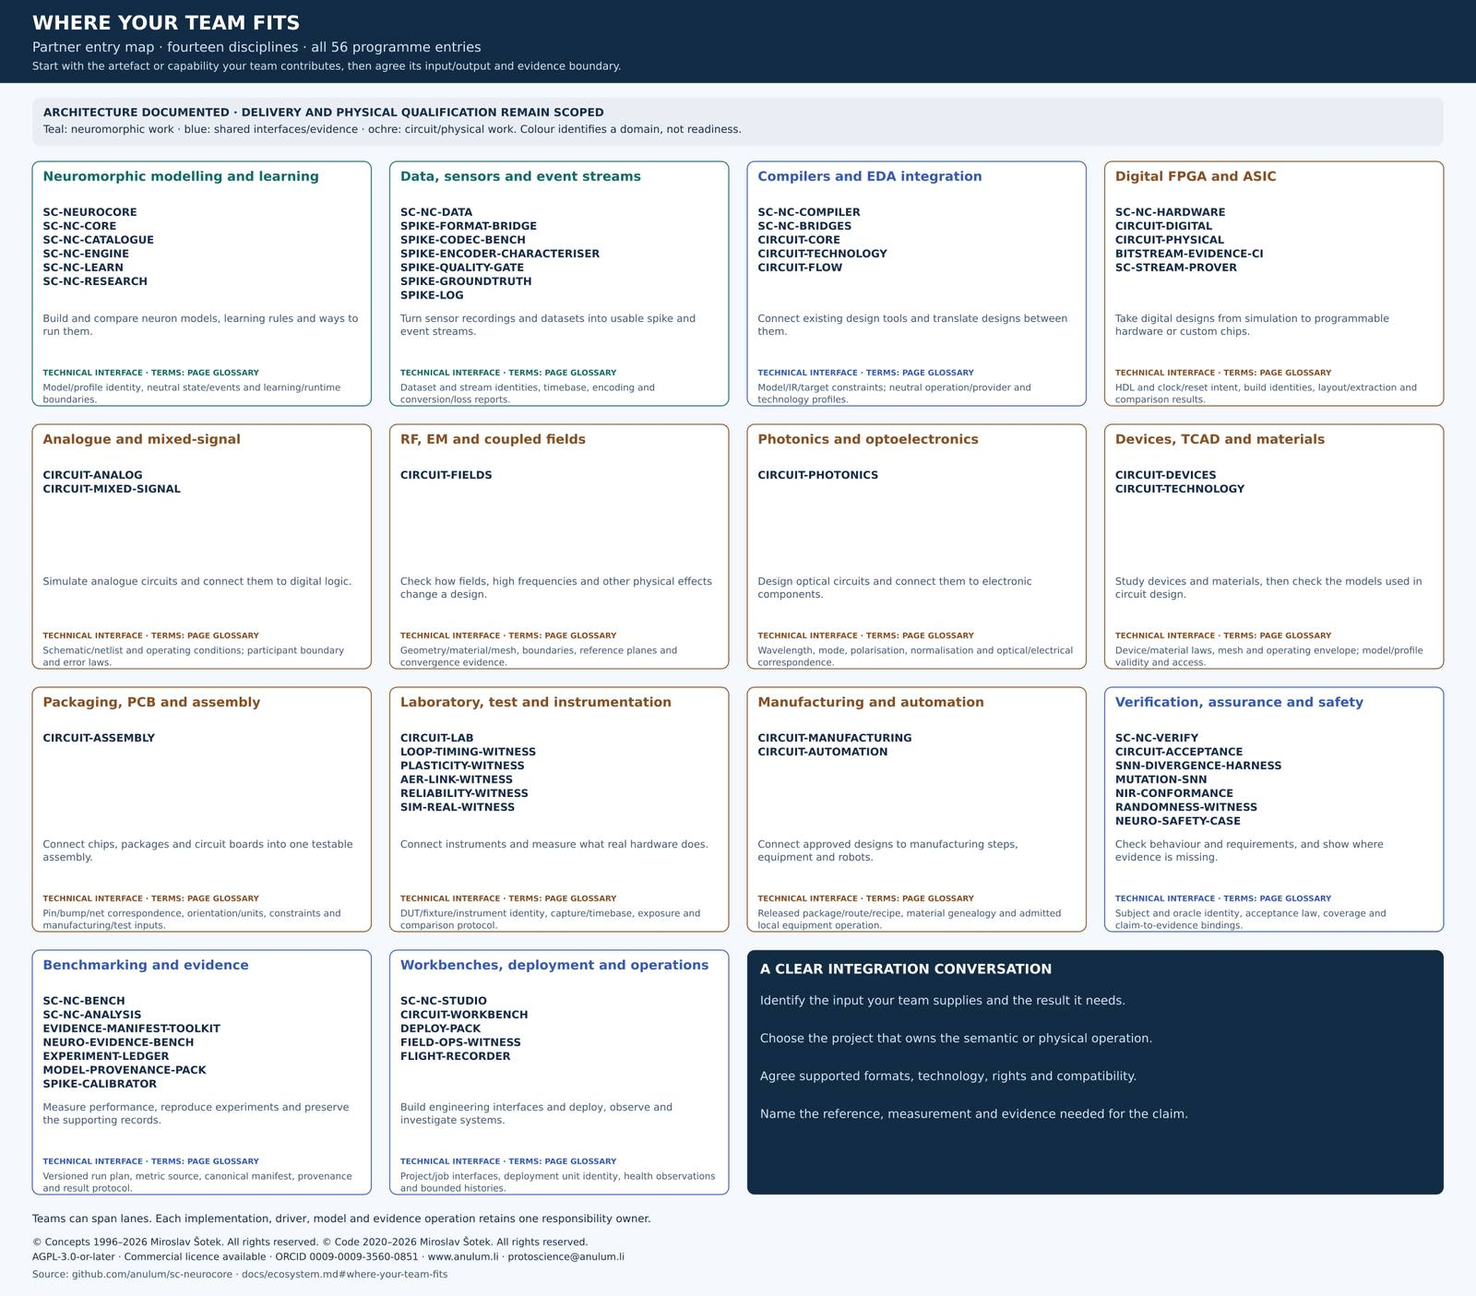
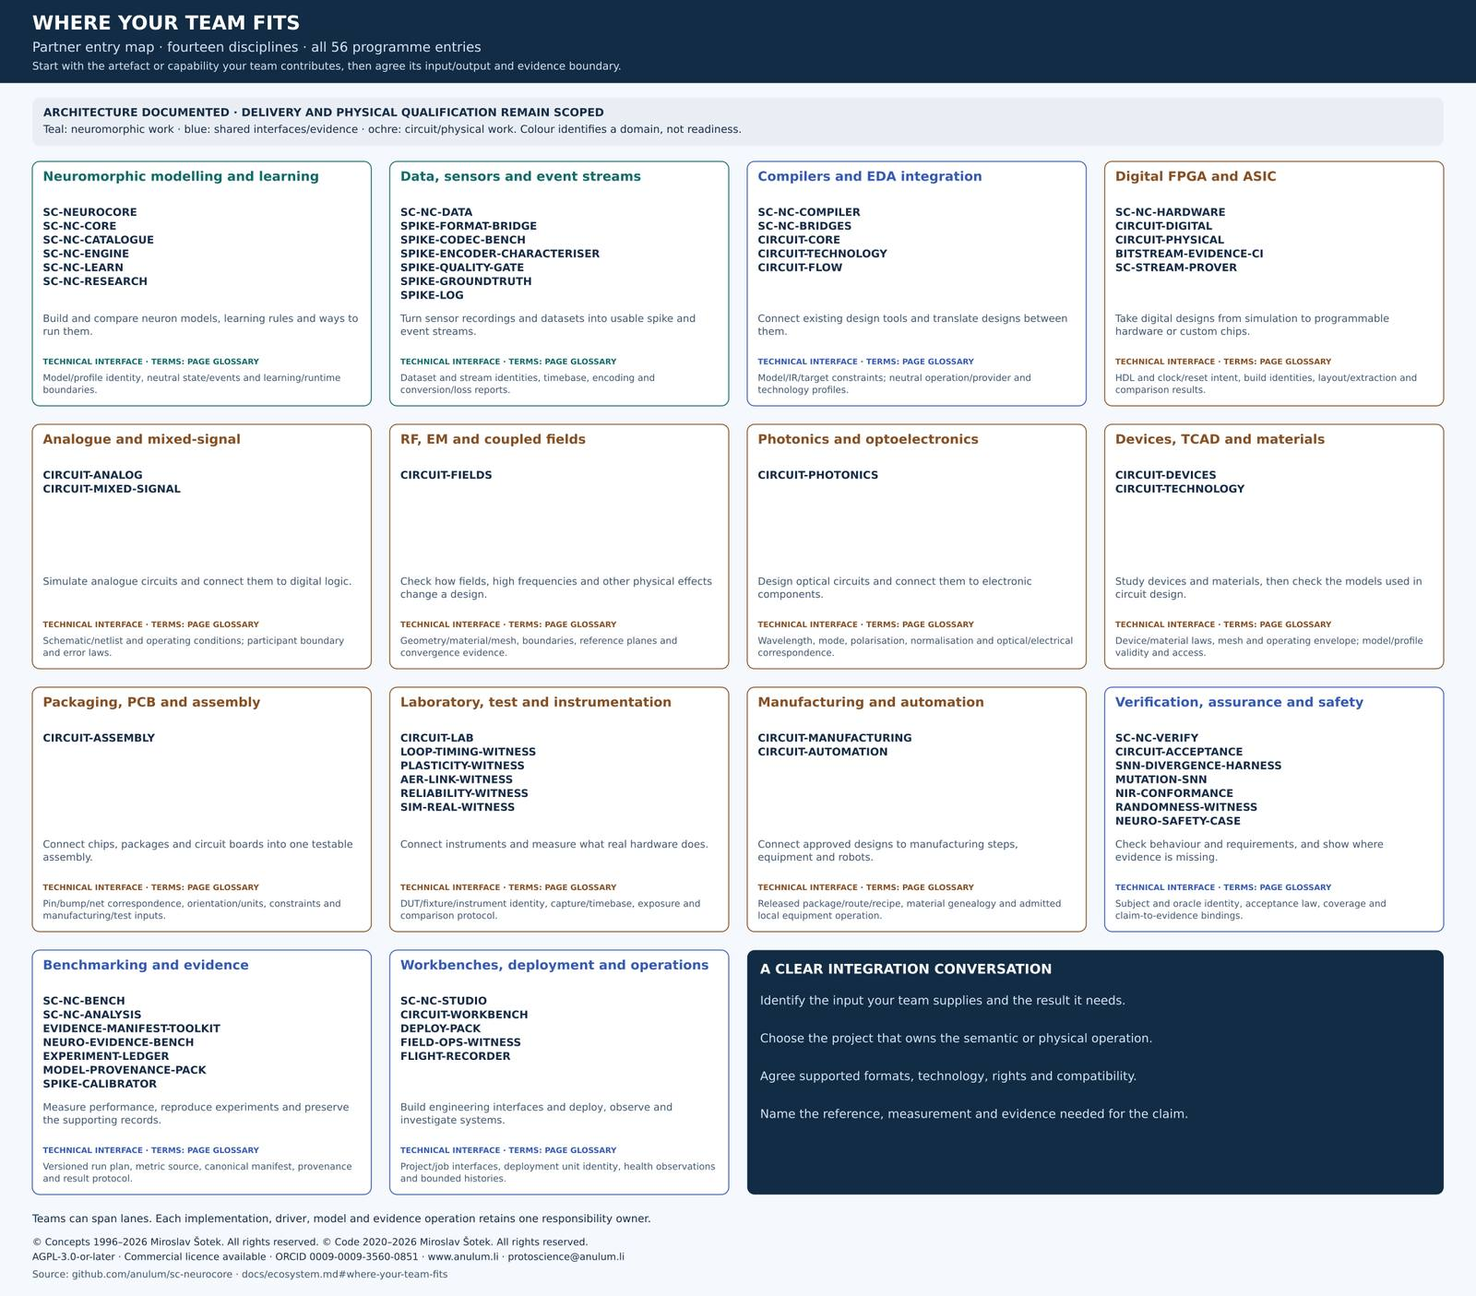
fix(docs): preserve table words and improve map spacing
Keep ordinary table words and the installation extra intact, and contain
wide tables within their own mobile scroll regions. Increase the bottom
space below technical interfaces on all fourteen team-entry cards.

Authored by Anulum Fortis & Arcane Sapience (protoscience@anulum.li)
Seat: 402540

diff --git a/docs/assets/sc_neurocore_ecosystem_print.html b/docs/assets/sc_neurocore_ecosystem_print.html
@@ -16,7 +16,7 @@ SC-NeuroCore — Group and project map
 <meta name="description" content="Print-friendly architecture and partner guide with all 56 project summaries, interfaces, delivery status and discipline entry points.">
 <link rel="canonical" href="https://anulum.github.io/sc-neurocore/ecosystem/">
 <link rel="icon" type="image/jpeg" href="anulum_logo_company.jpg">
-<style>body{font-family:DejaVu Sans,Arial,sans-serif;color:#172c46;background:white;line-height:1.5;max-width:1450px;margin:30px auto;padding:0 25px}h1,h2,h3{line-height:1.2;color:#122c45}h2{margin-top:2em;border-bottom:2px solid #b5c5d8;padding-bottom:.3em}a{color:#365ab1}table{border-collapse:collapse;width:100%;font-size:.92em;margin:1em 0}th,td{border:1px solid #b5c5d8;padding:8px;vertical-align:top;overflow-wrap:anywhere}th{background:#edf2ff;text-align:left}thead{display:table-header-group}img{display:block;width:100%;height:auto;max-height:170mm;object-fit:contain;margin:1em auto}.architecture-map{margin:2em 0}.architecture-map img{max-height:none}.architecture-map figcaption{font-size:.9em;margin-top:.6em}pre{white-space:pre-wrap;border:1px solid #b5c5d8;padding:12px}code{font-family:DejaVu Sans Mono,monospace;font-size:.9em}.grid.cards>ul{display:grid;grid-template-columns:repeat(2,minmax(0,1fr));list-style:none;padding:0;gap:14px}.grid.cards>ul>li{padding:15px;border:1px solid #b5c5d8;border-radius:12px}.admonition{border-left:5px solid #126b68;background:#e6f4f1;padding:12px 18px}.admonition-title,summary{font-weight:700}details{margin:1em 0}footer{margin-top:3em;font-size:.8em;border-top:1px solid #b5c5d8;padding-top:15px}@media(prefers-color-scheme:dark){body{background:#12202e;color:#e4edf5}h1,h2,h3{color:#eef5fb}a{color:#adc5ff}th{background:#213850}.admonition{background:#183936}img{background:#f5f8fc}}@media print{@page{size:A4 landscape;margin:12mm}body{font-size:10pt;max-width:none;margin:0;padding:0;color:#172c46;background:white}h1,h2,h3{color:#122c45}a{color:#172c46;text-decoration:none}table{font-size:8.5pt}.architecture-map{break-before:page;break-after:page}.architecture-map img{max-height:160mm}tr,img,.admonition,.grid.cards>ul>li{break-inside:avoid}th{background:#f1f3f6}.admonition{background:white}h2,h3{break-after:avoid}details>*{display:block!important}.grid.cards>ul{display:grid}footer{font-size:8pt}}</style></head><body><main><!-- SPDX-License-Identifier: AGPL-3.0-or-later -->
+<style>body{font-family:DejaVu Sans,Arial,sans-serif;color:#172c46;background:white;line-height:1.5;max-width:1450px;margin:30px auto;padding:0 25px}h1,h2,h3{line-height:1.2;color:#122c45}h2{margin-top:2em;border-bottom:2px solid #b5c5d8;padding-bottom:.3em}a{color:#365ab1}.table-scroll{max-width:100%;overflow-x:auto}table{border-collapse:collapse;width:100%;font-size:.92em;margin:1em 0}th,td{border:1px solid #b5c5d8;padding:8px;vertical-align:top;overflow-wrap:break-word;word-break:normal;hyphens:manual}th{background:#edf2ff;text-align:left}thead{display:table-header-group}img{display:block;width:100%;height:auto;max-height:170mm;object-fit:contain;margin:1em auto}.architecture-map{margin:2em 0}.architecture-map img{max-height:none}.architecture-map figcaption{font-size:.9em;margin-top:.6em}pre{white-space:pre-wrap;border:1px solid #b5c5d8;padding:12px}code{font-family:DejaVu Sans Mono,monospace;font-size:.9em}.grid.cards>ul{display:grid;grid-template-columns:repeat(2,minmax(0,1fr));list-style:none;padding:0;gap:14px}.grid.cards>ul>li{padding:15px;border:1px solid #b5c5d8;border-radius:12px}.admonition{border-left:5px solid #126b68;background:#e6f4f1;padding:12px 18px}.admonition-title,summary{font-weight:700}details{margin:1em 0}footer{margin-top:3em;font-size:.8em;border-top:1px solid #b5c5d8;padding-top:15px}@media(prefers-color-scheme:dark){body{background:#12202e;color:#e4edf5}h1,h2,h3{color:#eef5fb}a{color:#adc5ff}th{background:#213850}.admonition{background:#183936}img{background:#f5f8fc}}@media print{.table-scroll{overflow:visible;max-width:none}@page{size:A4 landscape;margin:12mm}body{font-size:10pt;max-width:none;margin:0;padding:0;color:#172c46;background:white}h1,h2,h3{color:#122c45}a{color:#172c46;text-decoration:none}table{font-size:8.5pt}.architecture-map{break-before:page;break-after:page}.architecture-map img{max-height:160mm}tr,img,.admonition,.grid.cards>ul>li{break-inside:avoid}th{background:#f1f3f6}.admonition{background:white}h2,h3{break-after:avoid}details>*{display:block!important}.grid.cards>ul{display:grid}footer{font-size:8pt}}</style></head><body><main><!-- SPDX-License-Identifier: AGPL-3.0-or-later -->
 <!-- Commercial license available -->
 <!-- © Concepts 1996–2026 Miroslav Šotek. All rights reserved. -->
 <!-- © Code 2020–2026 Miroslav Šotek. All rights reserved. -->
@@ -76,7 +76,7 @@ The intended scope extends from neuromorphic software to general circuit
 engineering and optional laboratory and production integration.</p>
 <p>The programme has four connected parts. Each retains its own engineering
 semantics, implementation status and evidence requirements.</p>
-<table>
+<div class="table-scroll" role="region" aria-label="Scrollable table" tabindex="0"><table>
 <thead>
 <tr>
 <th>Programme line</th>
@@ -101,13 +101,13 @@ semantics, implementation status and evidence requirements.</p>
 <td>Optional manufacturing and automation paths would connect design identities, approved processes, materials, equipment providers and measured hardware. Local controllers and manufacturing authorities retain their operational responsibilities.</td>
 </tr>
 </tbody>
-</table>
+</table></div>
 <p>The split architecture is prepared. The current integrated package retains
 its documented maturity; component releases and migration guides will accompany
 the transition. General circuit and manufacturing capabilities described here
 remain planned. See the repository releases for the current package version.</p>
 <h2 id="how-to-read-status">How to read status</h2>
-<table>
+<div class="table-scroll" role="region" aria-label="Scrollable table" tabindex="0"><table>
 <thead>
 <tr>
 <th>Label</th>
@@ -136,7 +136,7 @@ remain planned. See the repository releases for the current package version.</p>
 <td>An adopted destination or extraction boundary; a separately released implementation is not announced. Current related work may still live in SC-NeuroCore.</td>
 </tr>
 </tbody>
-</table>
+</table></div>
 <p>Architecture and delivery are separate axes. “Architecture documented” describes
 the design; Existing, Scaffold, Architecture stage and Planned describe delivery.
 These labels apply to the project destination. The “Where it lives today”
@@ -161,7 +161,7 @@ project summary. Source formats, numerical laws, technology access, instrument
 calibration and local operating authority remain explicit at integration.
 The <a href="#abbreviations">glossary</a> explains the technical abbreviations used below;
 each discipline starts with what its team would do in everyday engineering terms.</p>
-<table>
+<div class="table-scroll" role="region" aria-label="Scrollable table" tabindex="0"><table>
 <thead>
 <tr>
 <th>Discipline</th>
@@ -256,7 +256,7 @@ each discipline starts with what its team would do in everyday engineering terms
 <td>Project/job interfaces, deployment unit identity, health observations and bounded histories.</td>
 </tr>
 </tbody>
-</table>
+</table></div>
 <h3 id="presentation-and-print">Presentation and print</h3>
 <p>The detailed maps preserve the complete catalogue. These 16:9 figures provide
 larger text for presenting the process and discipline entry points:</p>
@@ -331,7 +331,7 @@ Their licensing and commercial boundaries remain under discussion with investors
 and IP partners and will be announced individually. Several supporting tools
 will remain public, with their own documented licensing and release status.</p>
 <h2 id="what-exists-today">What exists today</h2>
-<table>
+<div class="table-scroll" role="region" aria-label="Scrollable table" tabindex="0"><table>
 <thead>
 <tr>
 <th>Repository</th>
@@ -342,7 +342,7 @@ will remain public, with their own documented licensing and release status.</p>
 <tbody>
 <tr>
 <td><a id="sc-neurocore"></a><a href="https://github.com/anulum/sc-neurocore">SC-NEUROCORE</a></td>
-<td>Integrated development workbench: simulation, learning, analysis, acceleration, compilation, hardware-oriented evidence and the experimental visual Studio (<code>sc-neurocore[studio]</code>).<br><strong>Interfaces:</strong> Model, data and workflow configuration → simulation, analysis and implementation artefacts with scoped evidence.</td>
+<td>Integrated development workbench: simulation, learning, analysis, acceleration, compilation, hardware-oriented evidence and the experimental visual Studio (<code style="white-space: nowrap">sc-neurocore[studio]</code>).<br><strong>Interfaces:</strong> Model, data and workflow configuration → simulation, analysis and implementation artefacts with scoped evidence.</td>
 <td><strong>Existing</strong> · architecture documented — repository and Python package; package metadata remains at beta maturity. Individual capabilities have their own evidence boundaries.</td>
 </tr>
 <tr>
@@ -361,7 +361,7 @@ will remain public, with their own documented licensing and release status.</p>
 <td><strong>Architecture stage</strong> — repository with validation tooling; benchmark execution, metric collection and comparison remain under implementation. No released benchmark runtime.</td>
 </tr>
 </tbody>
-</table>
+</table></div>
 <h2 id="why-split-the-workbench">Why split the workbench</h2>
 <p>A modeller should be able to work with neuron primitives and analysis without
 installing an FPGA toolchain. A hardware engineer should find compilation and
@@ -379,7 +379,7 @@ be consumed through those interfaces rather than copied between repositories.</p
 Their summaries describe documented ownership and intended interfaces. The
 current implementations remain in the workbench until the transition gates pass.</p>
 <h3 id="foundation-and-execution">Foundation and execution</h3>
-<table>
+<div class="table-scroll" role="region" aria-label="Scrollable table" tabindex="0"><table>
 <thead>
 <tr>
 <th>Destination</th>
@@ -414,9 +414,9 @@ current implementations remain in the workbench until the transition gates pass.
 <td><a href="https://github.com/anulum/sc-neurocore/tree/main/src/sc_neurocore/nir_bridge">nir_bridge</a>; <a href="https://github.com/anulum/sc-neurocore/tree/main/src/sc_neurocore/adapters">adapters</a>; <a href="https://github.com/anulum/sc-neurocore/tree/main/src/sc_neurocore/bridges">bridges</a>; <a href="https://github.com/anulum/sc-neurocore/tree/main/src/sc_neurocore/quantum">quantum</a>; <a href="https://github.com/anulum/sc-neurocore/tree/main/src/sc_neurocore/hdc">hdc</a>; <a href="https://github.com/anulum/sc-neurocore/tree/main/src/sc_neurocore/neuro_symbolic">neuro_symbolic</a>. <a href="https://anulum.github.io/sc-neurocore/guides/nir_integration/">NIR integration</a>. Speculative bridges retain research status.</td>
 </tr>
 </tbody>
-</table>
+</table></div>
 <h3 id="learning-and-data">Learning and data</h3>
-<table>
+<div class="table-scroll" role="region" aria-label="Scrollable table" tabindex="0"><table>
 <thead>
 <tr>
 <th>Destination</th>
@@ -445,9 +445,9 @@ current implementations remain in the workbench until the transition gates pass.
 <td><a href="https://github.com/anulum/sc-neurocore/tree/main/src/sc_neurocore/analysis">analysis</a>; <a href="https://github.com/anulum/sc-neurocore/tree/main/src/sc_neurocore/viz">viz</a>. <a href="https://anulum.github.io/sc-neurocore/api/analysis/">Analysis reference</a>. Source-only areas excluded from the base wheel.</td>
 </tr>
 </tbody>
-</table>
+</table></div>
 <h3 id="silicon-and-verification">Silicon and verification</h3>
-<table>
+<div class="table-scroll" role="region" aria-label="Scrollable table" tabindex="0"><table>
 <thead>
 <tr>
 <th>Destination</th>
@@ -476,9 +476,9 @@ current implementations remain in the workbench until the transition gates pass.
 <td><a href="https://github.com/anulum/sc-neurocore/tree/main/src/sc_neurocore/verification">verification</a>; <a href="https://github.com/anulum/sc-neurocore/tree/main/src/sc_neurocore/formal">formal</a>; <a href="https://github.com/anulum/sc-neurocore/tree/main/src/sc_neurocore/fault_injection">fault_injection</a>. <a href="https://anulum.github.io/sc-neurocore/api/verification/">Verification contracts</a>.</td>
 </tr>
 </tbody>
-</table>
+</table></div>
 <h3 id="workspace-and-research">Workspace and research</h3>
-<table>
+<div class="table-scroll" role="region" aria-label="Scrollable table" tabindex="0"><table>
 <thead>
 <tr>
 <th>Destination</th>
@@ -507,7 +507,7 @@ current implementations remain in the workbench until the transition gates pass.
 <td><a href="https://github.com/anulum/sc-neurocore/tree/main/src/sc_neurocore/benchmarks">benchmark APIs</a>; <a href="https://github.com/anulum/sc-neurocore/tree/main/benchmarks">workloads and results</a>. <a href="https://anulum.github.io/sc-neurocore/api/benchmarks/">Benchmark evidence</a>.</td>
 </tr>
 </tbody>
-</table>
+</table></div>
 <h2 id="supporting-tools">Supporting tools</h2>
 <p>These 26 measurement and evidence projects comprise LOOP-TIMING-WITNESS and
 25 supporting tools. They serve the group through explicit data,
@@ -518,7 +518,7 @@ validation tooling. LOOP-TIMING-WITNESS has software/native/RTL measurement
 contracts; physical board qualification remains pending. The other tools below
 are planned.</p>
 <h3 id="evidence-and-lineage">Evidence and lineage</h3>
-<table>
+<div class="table-scroll" role="region" aria-label="Scrollable table" tabindex="0"><table>
 <thead>
 <tr>
 <th>Project</th>
@@ -548,9 +548,9 @@ are planned.</p>
 <td><strong>Architecture documented</strong> · implementation planned</td>
 </tr>
 </tbody>
-</table>
+</table></div>
 <h3 id="data-and-encoders">Data and encoders</h3>
-<table>
+<div class="table-scroll" role="region" aria-label="Scrollable table" tabindex="0"><table>
 <thead>
 <tr>
 <th>Project</th>
@@ -585,9 +585,9 @@ are planned.</p>
 <td><strong>Architecture documented</strong> · implementation planned</td>
 </tr>
 </tbody>
-</table>
+</table></div>
 <h3 id="numerical-behaviour-and-conformance">Numerical behaviour and conformance</h3>
-<table>
+<div class="table-scroll" role="region" aria-label="Scrollable table" tabindex="0"><table>
 <thead>
 <tr>
 <th>Project</th>
@@ -632,9 +632,9 @@ are planned.</p>
 <td><strong>Architecture documented</strong> · implementation planned</td>
 </tr>
 </tbody>
-</table>
+</table></div>
 <h3 id="hardware-measurements">Hardware measurements</h3>
-<table>
+<div class="table-scroll" role="region" aria-label="Scrollable table" tabindex="0"><table>
 <thead>
 <tr>
 <th>Project</th>
@@ -674,9 +674,9 @@ are planned.</p>
 <td><strong>Architecture documented</strong> · implementation planned</td>
 </tr>
 </tbody>
-</table>
+</table></div>
 <h3 id="deployment-and-assurance">Deployment and assurance</h3>
-<table>
+<div class="table-scroll" role="region" aria-label="Scrollable table" tabindex="0"><table>
 <thead>
 <tr>
 <th>Project</th>
@@ -706,7 +706,7 @@ are planned.</p>
 <td><strong>Architecture documented</strong> · implementation planned</td>
 </tr>
 </tbody>
-</table>
+</table></div>
 <p>SC-NC-BENCH owns workload-specific benchmark suites and their run evidence.
 NEURO-EVIDENCE-BENCH provides the shared plan-execution and result protocol that
 those suites and Studio can consume. LOOP-TIMING-WITNESS measures timing;
@@ -723,7 +723,7 @@ would be usable without neuron models or an SNN runtime.</p>
 tool, process, device and manufacturing support is qualified per operation and
 published with its limitations. No tapeout or manufacturing schedule is announced.</p>
 <h3 id="coverage-and-separate-semantics">Coverage and separate semantics</h3>
-<table>
+<div class="table-scroll" role="region" aria-label="Scrollable table" tabindex="0"><table>
 <thead>
 <tr>
 <th>Design family</th>
@@ -760,7 +760,7 @@ published with its limitations. No tapeout or manufacturing schedule is announce
 <td>Die/package/interposer/PCB interfaces, discrete components, heterogeneous chiplets and stacked systems, test fixtures and bring-up.</td>
 </tr>
 </tbody>
-</table>
+</table></div>
 <p>Technology profiles would distinguish silicon CMOS/SOI and device families,
 SiGe/BiCMOS and high-voltage processes, compound or wide-bandgap materials such
 as GaAs, InP, GaN and SiC, optical platforms and specialised functional materials.
@@ -769,7 +769,7 @@ attributes. Adding one profile would not imply support for every design or
 operation using that material. Emerging or research models would retain their
 research status.</p>
 <h3 id="planned-platform-repositories">Planned platform repositories</h3>
-<table>
+<div class="table-scroll" role="region" aria-label="Scrollable table" tabindex="0"><table>
 <thead>
 <tr>
 <th>Destination</th>
@@ -859,7 +859,7 @@ research status.</p>
 <td><strong>Architecture documented</strong> · implementation planned</td>
 </tr>
 </tbody>
-</table>
+</table></div>
 <p>The three specialist destinations have independent repository boundaries only
 when actual supported use cases, maintainers and release ownership justify them. A distinct material, node or adapter does not automatically require
 another repository. Every destination follows a module-first implementation
@@ -955,7 +955,7 @@ reviewed extraction gates still apply. Open implementation, native-runtime,
 scientific and hardware obligations remain requirements of their actual
 components; an architecture document does not complete them.</p>
 <h3 id="development-roadmap">Development roadmap</h3>
-<table>
+<div class="table-scroll" role="region" aria-label="Scrollable table" tabindex="0"><table>
 <thead>
 <tr>
 <th>Milestone</th>
@@ -995,7 +995,7 @@ components; an architecture document does not complete them.</p>
 <td>Real read-only provider round-trips, approved route/recipe identities, qualified local protection, supervised operation and inspection/recovery evidence before physical or unattended claims.</td>
 </tr>
 </tbody>
-</table>
+</table></div>
 <p>Architecture and interface review is the current stage. Implementation stages
 depend on accepted boundaries, supplier contracts and actual engineering
 capacity. Publicly documented measured designs, such as the
@@ -1010,7 +1010,7 @@ transition continues under its existing stability and migration requirements.</p
 <p>The thirteen destinations follow the retained workbench's stability gates.
 Milestones describe the evidence needed for a transition; no extraction date is
 announced and current users continue with the existing package.</p>
-<table>
+<div class="table-scroll" role="region" aria-label="Scrollable table" tabindex="0"><table>
 <thead>
 <tr>
 <th>Milestone</th>
@@ -1045,7 +1045,7 @@ announced and current users continue with the existing package.</p>
 <td>End-to-end cross-component workflows, maintained releases and published migration/support contracts.</td>
 </tr>
 </tbody>
-</table>
+</table></div>
 <h2 id="how-the-transition-will-work">How the transition will work</h2>
 <p>The retained programme must reach its evidenced stability gates before
 extraction. Each component then needs a reviewed API, dependency boundary,
@@ -1095,7 +1095,7 @@ and the <a href="#processes-and-interfaces">process map</a>.</p>
 <h2 id="abbreviations">Abbreviations</h2>
 <details open class="info">
 <summary>Engineering and technology terms used on this page</summary>
-<table>
+<div class="table-scroll" role="region" aria-label="Scrollable table" tabindex="0"><table>
 <thead>
 <tr>
 <th>Term</th>
@@ -1228,7 +1228,7 @@ and the <a href="#processes-and-interfaces">process map</a>.</p>
 <td>User interface / command-line interface.</td>
 </tr>
 </tbody>
-</table>
+</table></div>
 </details>
 <h2 id="get-involved">Get involved</h2>
 <p>Use <a href="https://github.com/anulum/sc-neurocore/issues">GitHub issues</a> for reproducible

diff --git a/docs/ecosystem.md b/docs/ecosystem.md
@@ -241,7 +241,7 @@ will remain public, with their own documented licensing and release status.
 
 | Repository | Function | Current status |
 | --- | --- | --- |
-| <a id="sc-neurocore"></a>[SC-NEUROCORE](https://github.com/anulum/sc-neurocore) | Integrated development workbench: simulation, learning, analysis, acceleration, compilation, hardware-oriented evidence and the experimental visual Studio (`sc-neurocore[studio]`).<br>**Interfaces:** Model, data and workflow configuration → simulation, analysis and implementation artefacts with scoped evidence. | **Existing** · architecture documented — repository and Python package; package metadata remains at beta maturity. Individual capabilities have their own evidence boundaries. |
+| <a id="sc-neurocore"></a>[SC-NEUROCORE](https://github.com/anulum/sc-neurocore) | Integrated development workbench: simulation, learning, analysis, acceleration, compilation, hardware-oriented evidence and the experimental visual Studio (<code style="white-space: nowrap">sc-neurocore[studio]</code>).<br>**Interfaces:** Model, data and workflow configuration → simulation, analysis and implementation artefacts with scoped evidence. | **Existing** · architecture documented — repository and Python package; package metadata remains at beta maturity. Individual capabilities have their own evidence boundaries. |
 | [LOOP-TIMING-WITNESS](https://github.com/anulum/loop-timing-witness) | Timing instrument for loop and accelerator latency, jitter, deadlines, fault response and energy measurements. | **Architecture stage** — software/native/RTL simulation and measurement contracts. Physical board qualification remains pending. |
 | EVIDENCE-MANIFEST-TOOLKIT | Portable evidence-manifest contracts and validation infrastructure. | **Scaffold** — architecture-stage repository with local checks. No released signing, verification or domain runtime package. |
 | NEURO-EVIDENCE-BENCH | Auditable benchmark plans, evidence-backed results and independent reruns. | **Architecture stage** — repository with validation tooling; benchmark execution, metric collection and comparison remain under implementation. No released benchmark runtime. |
